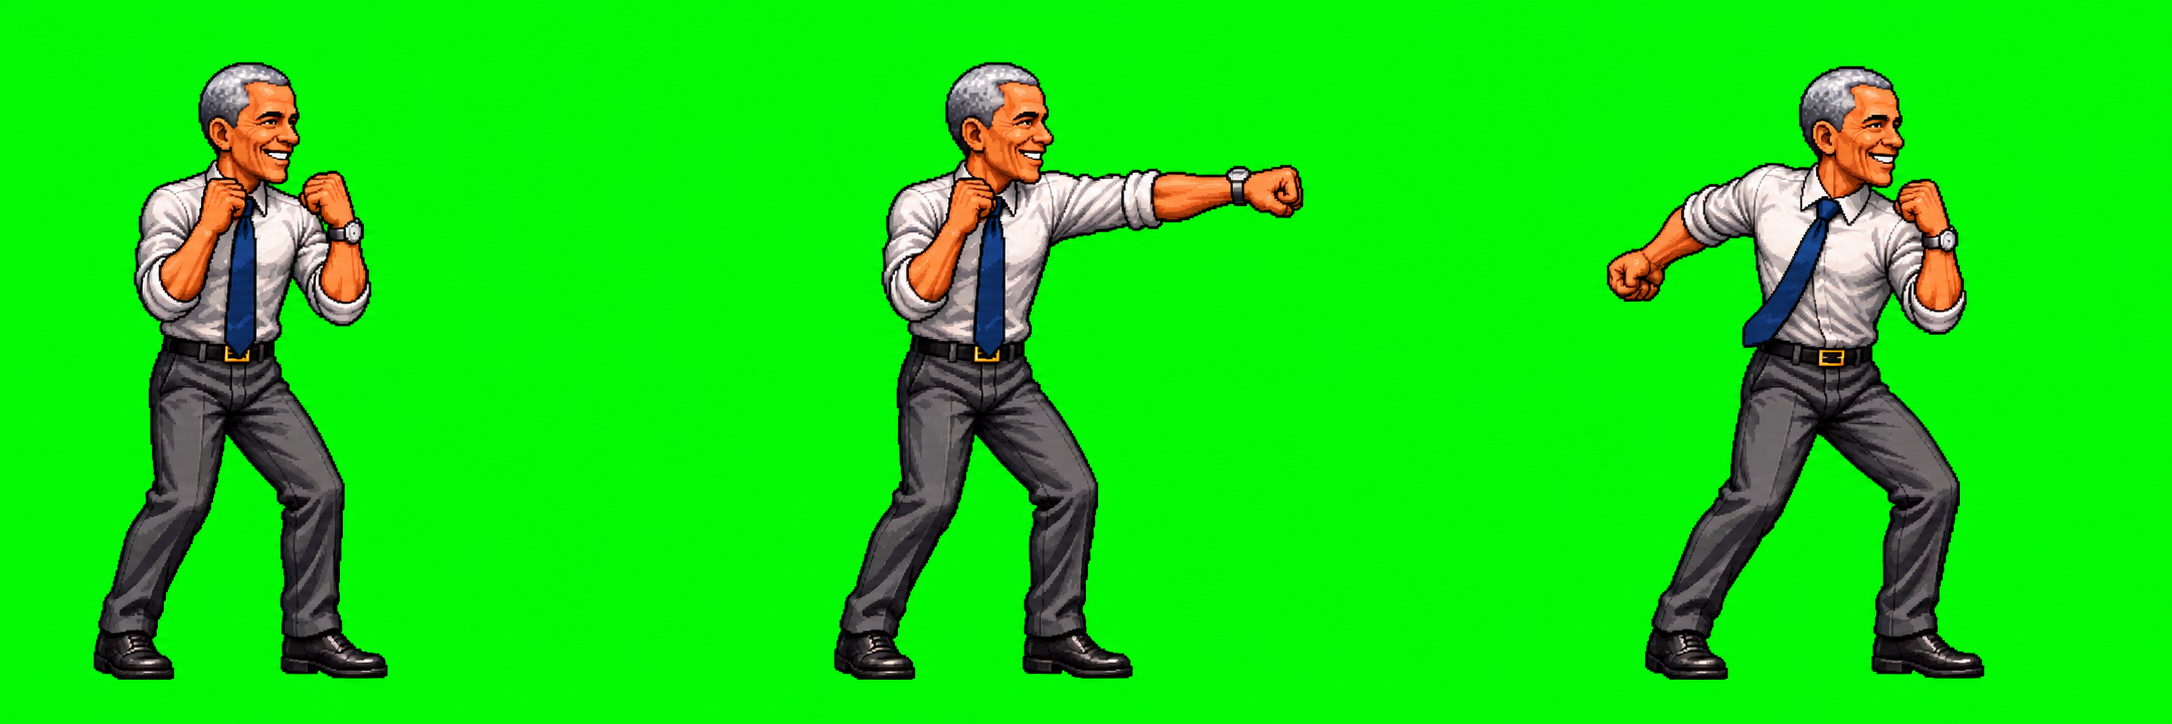
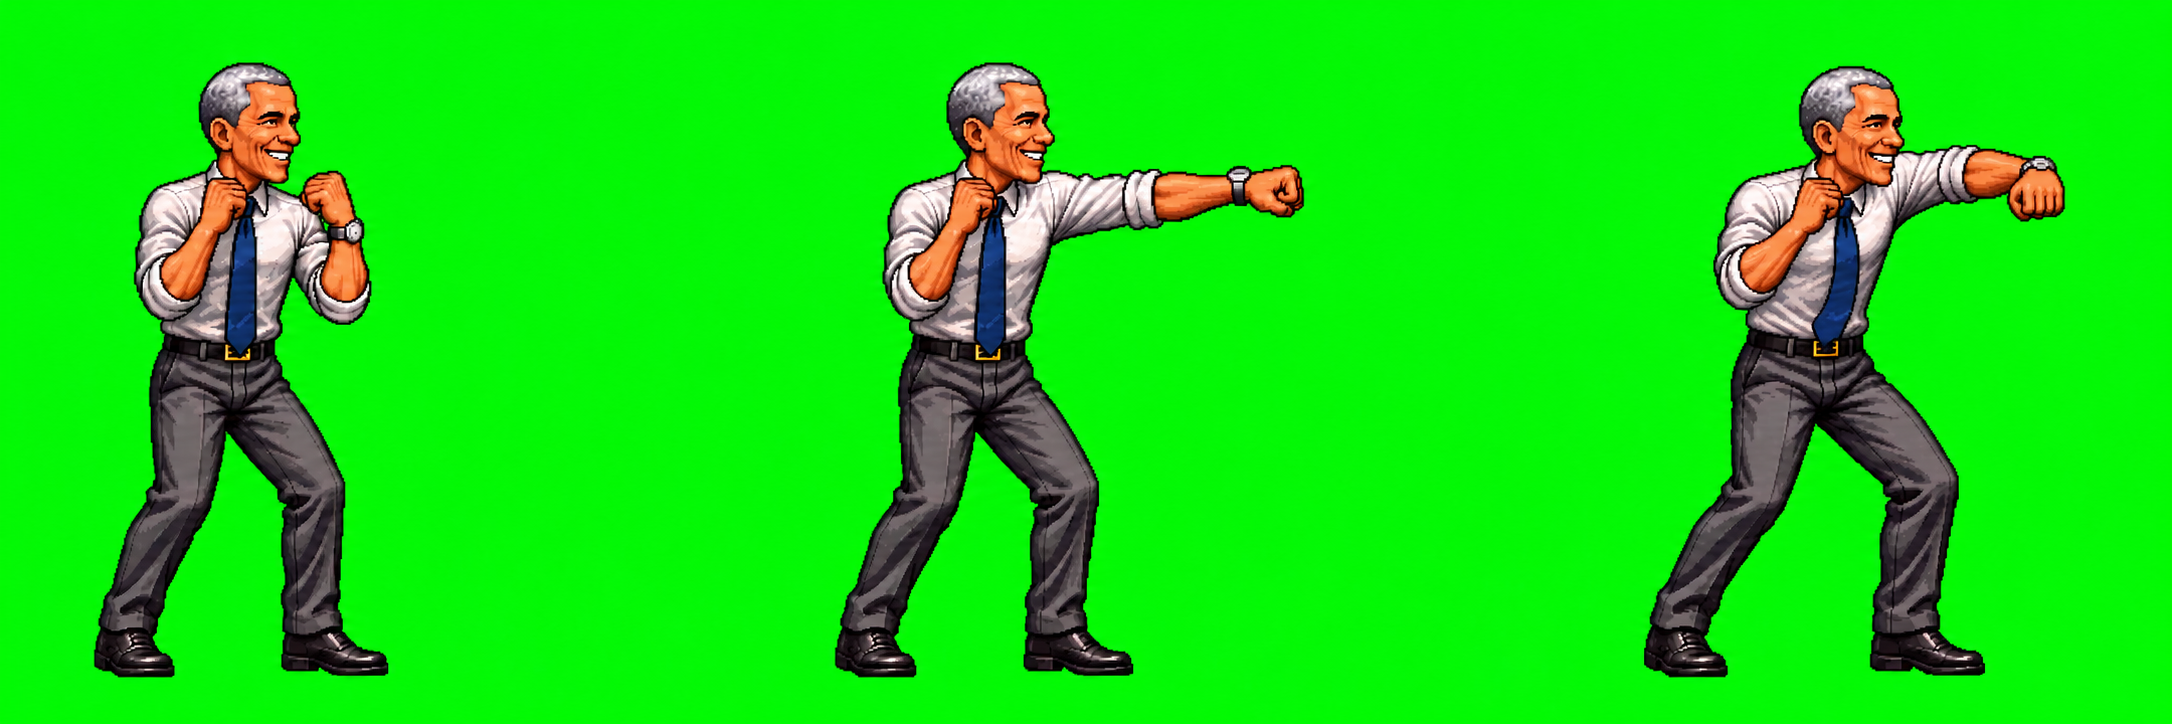
Обама: исправленный лист 3, хук
Claude-Session: https://claude.ai/code/session_012zTuWBEuaUwbBpzq3EaXfe

diff --git a/sprites.js b/sprites.js
@@ -615,8 +615,13 @@ window.SPRITES = {
   },
   "punch": {
    "src": "assets/sprites/obama/punch.png",
-   "ax": 72,
+   "ax": 73,
    "ay": 281
+  },
+  "hook": {
+   "src": "assets/sprites/obama/hook.png",
+   "ax": 82,
+   "ay": 279
   },
   "counter": {
    "src": "assets/sprites/obama/counter.png",

diff --git a/tools/build_sprites.py b/tools/build_sprites.py
@@ -58,7 +58,6 @@ OWN = {
         "sp_deal": ("12", 0, "feet"), "sp_bigleague_0": ("12", 1, "feet"), "sp_bigleague": ("12", 2, "feet"),
     },
     "obama": {
-        "hook": None,  # третья поза листа 3 бьёт назад — ждём исправленный лист
         "sp_ball_0": ("08", 0, "feet"), "sp_ball": ("08", 1, "air"), "special": ("08", 1, "air"), "cool": ("08", 2, "feet"),
         "item_ball": ("09", 0, "item"), "item_mic": ("09", 1, "item"), "fatality": ("09", 2, "feet"),
         "sp_fastbreak": ("12", 0, "feet"), "sp_yeswecan": ("12", 1, "feet"), "super": ("12", 2, "air"),
